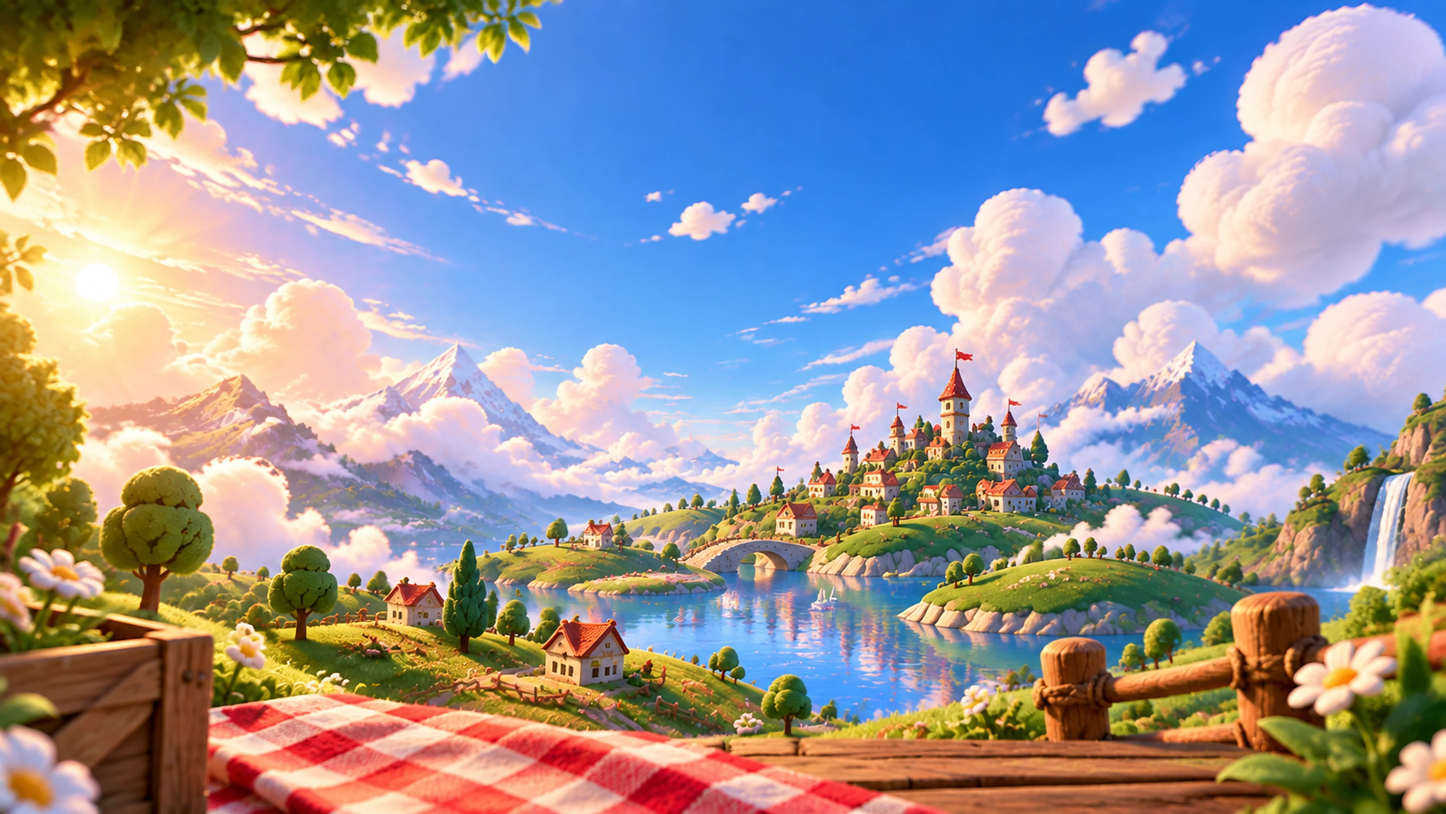
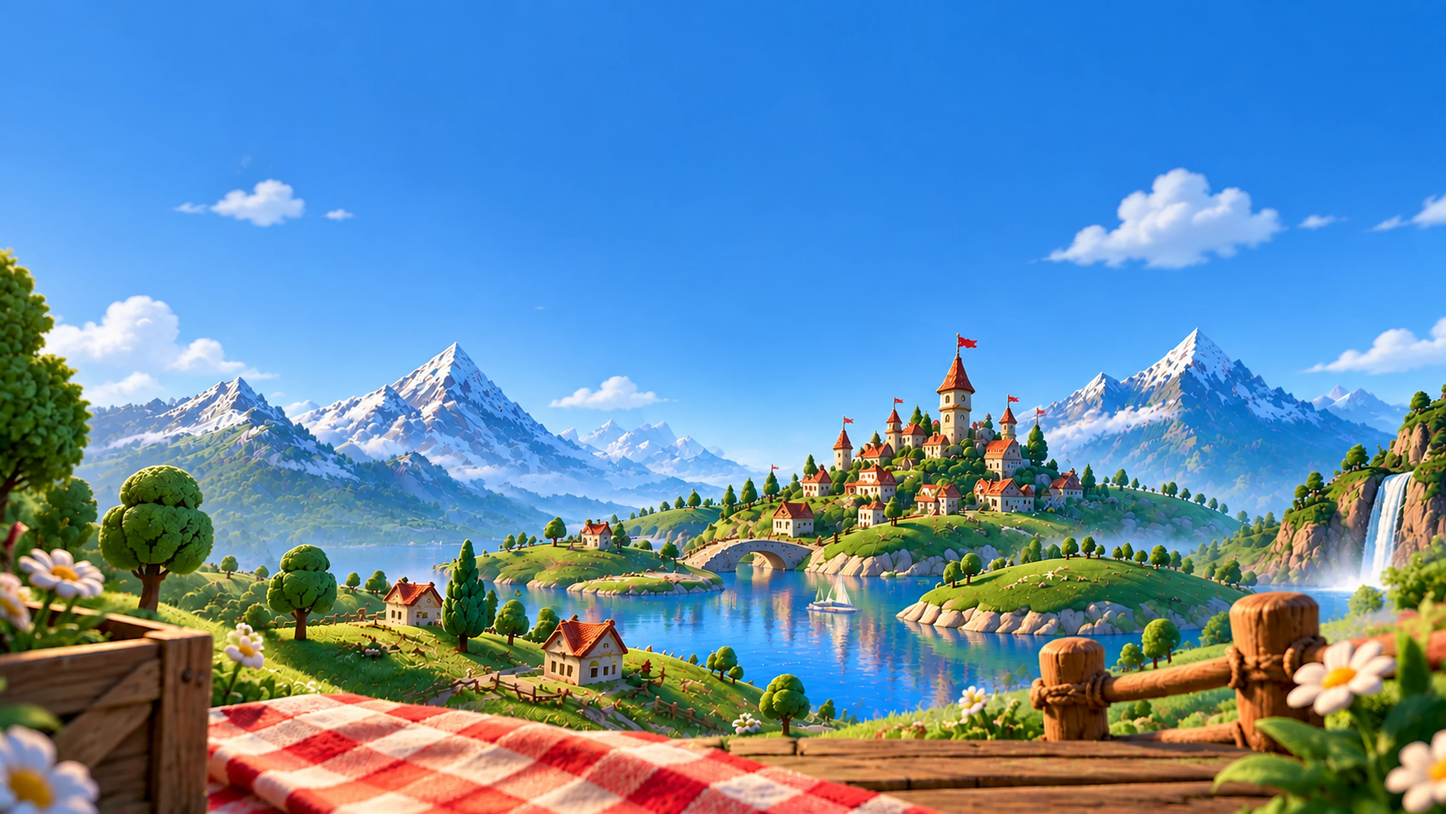
Switch to the new clear-sky backgrounds (desktop + phone)
- New landscape (desktop) and portrait (phone) paintings, both 2x
  EDSR-upscaled to WebP (3344x1882 / 1882x3344).
- Waterfall, mist and lake-ripple positions remapped to the new
  paintings; lake boxes avoid the lakeside houses so their roofs don't
  ripple. The sun effect is now optional and off (clear sky).
- Drifting clouds are cut from the new skies so they match; the old
  sunset-tinted sprites are removed.

diff --git a/src/app/components/LivingBackground.tsx b/src/app/components/LivingBackground.tsx
@@ -1,13 +1,14 @@
 import type { CSSProperties } from "react";
 import landscape from "../../assets/background/landscape-hd.webp"; // 2× AI-upscaled (EDSR) 1672×941 painting
 import portrait from "../../assets/background/portrait-hd.webp";   // 2× AI-upscaled (EDSR) 941×1672 painting
-import cloudA from "../../assets/background/cloud-a.webp";
-import cloudC from "../../assets/background/cloud-c.webp";
-import cloudD from "../../assets/background/cloud-d.webp";
-import cloudE from "../../assets/background/cloud-e.webp";
-import pcloudA from "../../assets/background/pcloud-a.webp";
-import pcloudB from "../../assets/background/pcloud-b.webp";
-import pcloudF from "../../assets/background/pcloud-f.webp";
+import landA from "../../assets/background/land-cloud-a.webp";
+import landB from "../../assets/background/land-cloud-b.webp";
+import landC from "../../assets/background/land-cloud-c.webp";
+import landD from "../../assets/background/land-cloud-d.webp";
+import portA from "../../assets/background/port-cloud-a.webp";
+import portB from "../../assets/background/port-cloud-b.webp";
+import portC from "../../assets/background/port-cloud-c.webp";
+import portD from "../../assets/background/port-cloud-d.webp";
 
 // ─── Scenes ───────────────────────────────────────────────────────────────────
 // Each scene is a painting plus where its living parts are, in the painting's own
@@ -15,29 +16,28 @@ import pcloudF from "../../assets/background/pcloud-f.webp";
 // Clouds: top / w in % of the painting; dur / delay in seconds (negative delay on use).
 type Box = { x: number; y: number; w: number; h: number };
 type Cloud = { src: string; top: number; w: number; dur: number; delay: number; flip?: boolean; op: number };
-type Scene = { img: string; W: number; H: number; anchorX: number; clouds: Cloud[]; sun: Box; fall: Box & { skew: number }; mist: Box; lake: Box };
+type Scene = { img: string; W: number; H: number; anchorX: number; clouds: Cloud[]; sun?: Box; fall: Box & { skew: number }; mist: Box; lake: Box };
 
 // Desktop: landscape painting, anchored at 88% so the waterfall on the right survives side cropping.
 const DESKTOP: Scene = {
   img: landscape, W: 1672, H: 941, anchorX: 88,
   clouds: [
-    { src: cloudC, top: 3, w: 12, dur: 150, delay: 20, op: 0.95 },
-    { src: cloudD, top: 20, w: 10, dur: 115, delay: 70, op: 0.9 },
-    { src: cloudC, top: 11, w: 9, dur: 185, delay: 120, flip: true, op: 0.85 },
-    { src: cloudD, top: 29, w: 13, dur: 140, delay: 35, flip: true, op: 0.8 },
-    { src: cloudA, top: 1, w: 26, dur: 240, delay: 160, op: 0.9 },
-    { src: cloudE, top: 6, w: 16, dur: 210, delay: 40, op: 0.9 },
-    { src: cloudE, top: 18, w: 11, dur: 170, delay: 130, flip: true, op: 0.8 },
-    { src: cloudA, top: 14, w: 18, dur: 260, delay: 60, flip: true, op: 0.75 },
-    { src: cloudC, top: 24, w: 7, dur: 120, delay: 95, op: 0.85 },
-    { src: cloudD, top: 8, w: 8, dur: 100, delay: 15, op: 0.9 },
-    { src: cloudE, top: 26, w: 9, dur: 150, delay: 5, op: 0.7 },
-    { src: cloudC, top: 0, w: 15, dur: 200, delay: 185, flip: true, op: 0.9 },
+    { src: landA, top: 4, w: 18, dur: 190, delay: 20, op: 0.95 },
+    { src: landB, top: 14, w: 11, dur: 140, delay: 70, op: 0.9 },
+    { src: portC, top: 24, w: 16, dur: 170, delay: 120, op: 0.9 },
+    { src: landC, top: 36, w: 10, dur: 120, delay: 35, op: 0.85 },
+    { src: portA, top: 8, w: 13, dur: 160, delay: 160, flip: true, op: 0.9 },
+    { src: landD, top: 30, w: 10, dur: 130, delay: 40, op: 0.85 },
+    { src: portB, top: 18, w: 13, dur: 175, delay: 95, flip: true, op: 0.85 },
+    { src: landA, top: 27, w: 14, dur: 210, delay: 140, flip: true, op: 0.8 },
+    { src: portD, top: 2, w: 9, dur: 110, delay: 15, op: 0.9 },
+    { src: landB, top: 40, w: 8, dur: 100, delay: 60, flip: true, op: 0.8 },
+    { src: landC, top: 11, w: 8, dur: 115, delay: 100, op: 0.85 },
+    { src: portC, top: 33, w: 12, dur: 185, delay: 185, flip: true, op: 0.8 },
   ],
-  sun: { x: -88, y: 122, w: 400, h: 400 },
-  fall: { x: 1582, y: 546, w: 44, h: 146, skew: -8.6 },
-  mist: { x: 1552, y: 672, w: 80, h: 36 },
-  lake: { x: 590, y: 645, w: 580, h: 150 },
+  fall: { x: 1584, y: 545, w: 40, h: 135, skew: -8.4 },
+  mist: { x: 1545, y: 657, w: 90, h: 36 },
+  lake: { x: 730, y: 648, w: 500, h: 150 }, // open water right of the lakeside house, so its roof never ripples
 };
 
 // Phones: portrait painting, anchored at 78% so the waterfall on the right edge stays on screen.
@@ -45,21 +45,20 @@ const DESKTOP: Scene = {
 const MOBILE: Scene = {
   img: portrait, W: 941, H: 1672, anchorX: 78,
   clouds: [
-    { src: pcloudA, top: 12, w: 20, dur: 60, delay: 10, op: 0.95 },
-    { src: pcloudB, top: 31, w: 22, dur: 70, delay: 30, op: 0.95 },
-    { src: pcloudF, top: 20, w: 28, dur: 85, delay: 55, op: 0.9 },
-    { src: cloudC, top: 4, w: 18, dur: 55, delay: 20, flip: true, op: 0.9 },
-    { src: cloudD, top: 26, w: 16, dur: 48, delay: 12, op: 0.85 },
-    { src: cloudE, top: 38, w: 24, dur: 80, delay: 40, op: 0.8 },
-    { src: pcloudA, top: 42, w: 16, dur: 65, delay: 62, flip: true, op: 0.85 },
-    { src: pcloudB, top: 8, w: 18, dur: 75, delay: 47, flip: true, op: 0.9 },
-    { src: cloudC, top: 16, w: 14, dur: 50, delay: 35, op: 0.85 },
-    { src: pcloudF, top: 35, w: 22, dur: 90, delay: 75, flip: true, op: 0.8 },
+    { src: portA, top: 8, w: 23, dur: 60, delay: 10, op: 0.95 },
+    { src: portB, top: 24, w: 23, dur: 70, delay: 30, op: 0.95 },
+    { src: landA, top: 15, w: 33, dur: 85, delay: 55, op: 0.9 },
+    { src: portC, top: 38, w: 29, dur: 75, delay: 20, flip: true, op: 0.9 },
+    { src: landB, top: 3, w: 19, dur: 55, delay: 12, op: 0.9 },
+    { src: portD, top: 31, w: 18, dur: 50, delay: 40, op: 0.85 },
+    { src: landC, top: 45, w: 18, dur: 58, delay: 62, flip: true, op: 0.85 },
+    { src: landD, top: 19, w: 18, dur: 52, delay: 47, flip: true, op: 0.9 },
+    { src: portA, top: 49, w: 17, dur: 65, delay: 35, flip: true, op: 0.8 },
+    { src: portB, top: 12, w: 16, dur: 62, delay: 75, op: 0.85 },
   ],
-  sun: { x: -82, y: 642, w: 340, h: 340 },
-  fall: { x: 865, y: 1102, w: 30, h: 100, skew: -7.6 },
-  mist: { x: 847, y: 1191, w: 50, h: 22 },
-  lake: { x: 440, y: 1198, w: 400, h: 110 }, // open water right of the lakeside house, so its roof never ripples
+  fall: { x: 872, y: 1100, w: 34, h: 100, skew: -9 },
+  mist: { x: 850, y: 1193, w: 60, h: 24 },
+  lake: { x: 450, y: 1195, w: 390, h: 110 }, // open water right of the lakeside houses
 };
 
 // Sparkles on the lake, in % of the lake box.
@@ -143,7 +142,7 @@ const place = (b: Box, s: Scene): CSSProperties => ({
 });
 
 // Fixed full-screen painting that feels alive: drifting clouds, a flowing waterfall,
-// rippling lake and a breathing sun — CSS transform/opacity animations plus one small SVG
+// rippling lake (and a breathing sun when the scene has one) — CSS transform/opacity animations plus one small SVG
 // displacement filter on the lake. Phones get the portrait painting, desktops the landscape.
 export function LivingBackground({ isMobile }: { isMobile: boolean }) {
   const s = isMobile ? MOBILE : DESKTOP;
@@ -174,10 +173,12 @@ export function LivingBackground({ isMobile }: { isMobile: boolean }) {
           </div>
         ))}
 
-        <div className="lb-sun" style={place(s.sun, s)}>
-          <div className="lb-sun-glow" />
-          <div className="lb-sun-rays" />
-        </div>
+        {s.sun && (
+          <div className="lb-sun" style={place(s.sun, s)}>
+            <div className="lb-sun-glow" />
+            <div className="lb-sun-rays" />
+          </div>
+        )}
 
         <div className="lb-fall" style={{ ...place(s.fall, s), transform: `skewX(${s.fall.skew}deg)` }}>
           <div className="lb-fall-inner">
